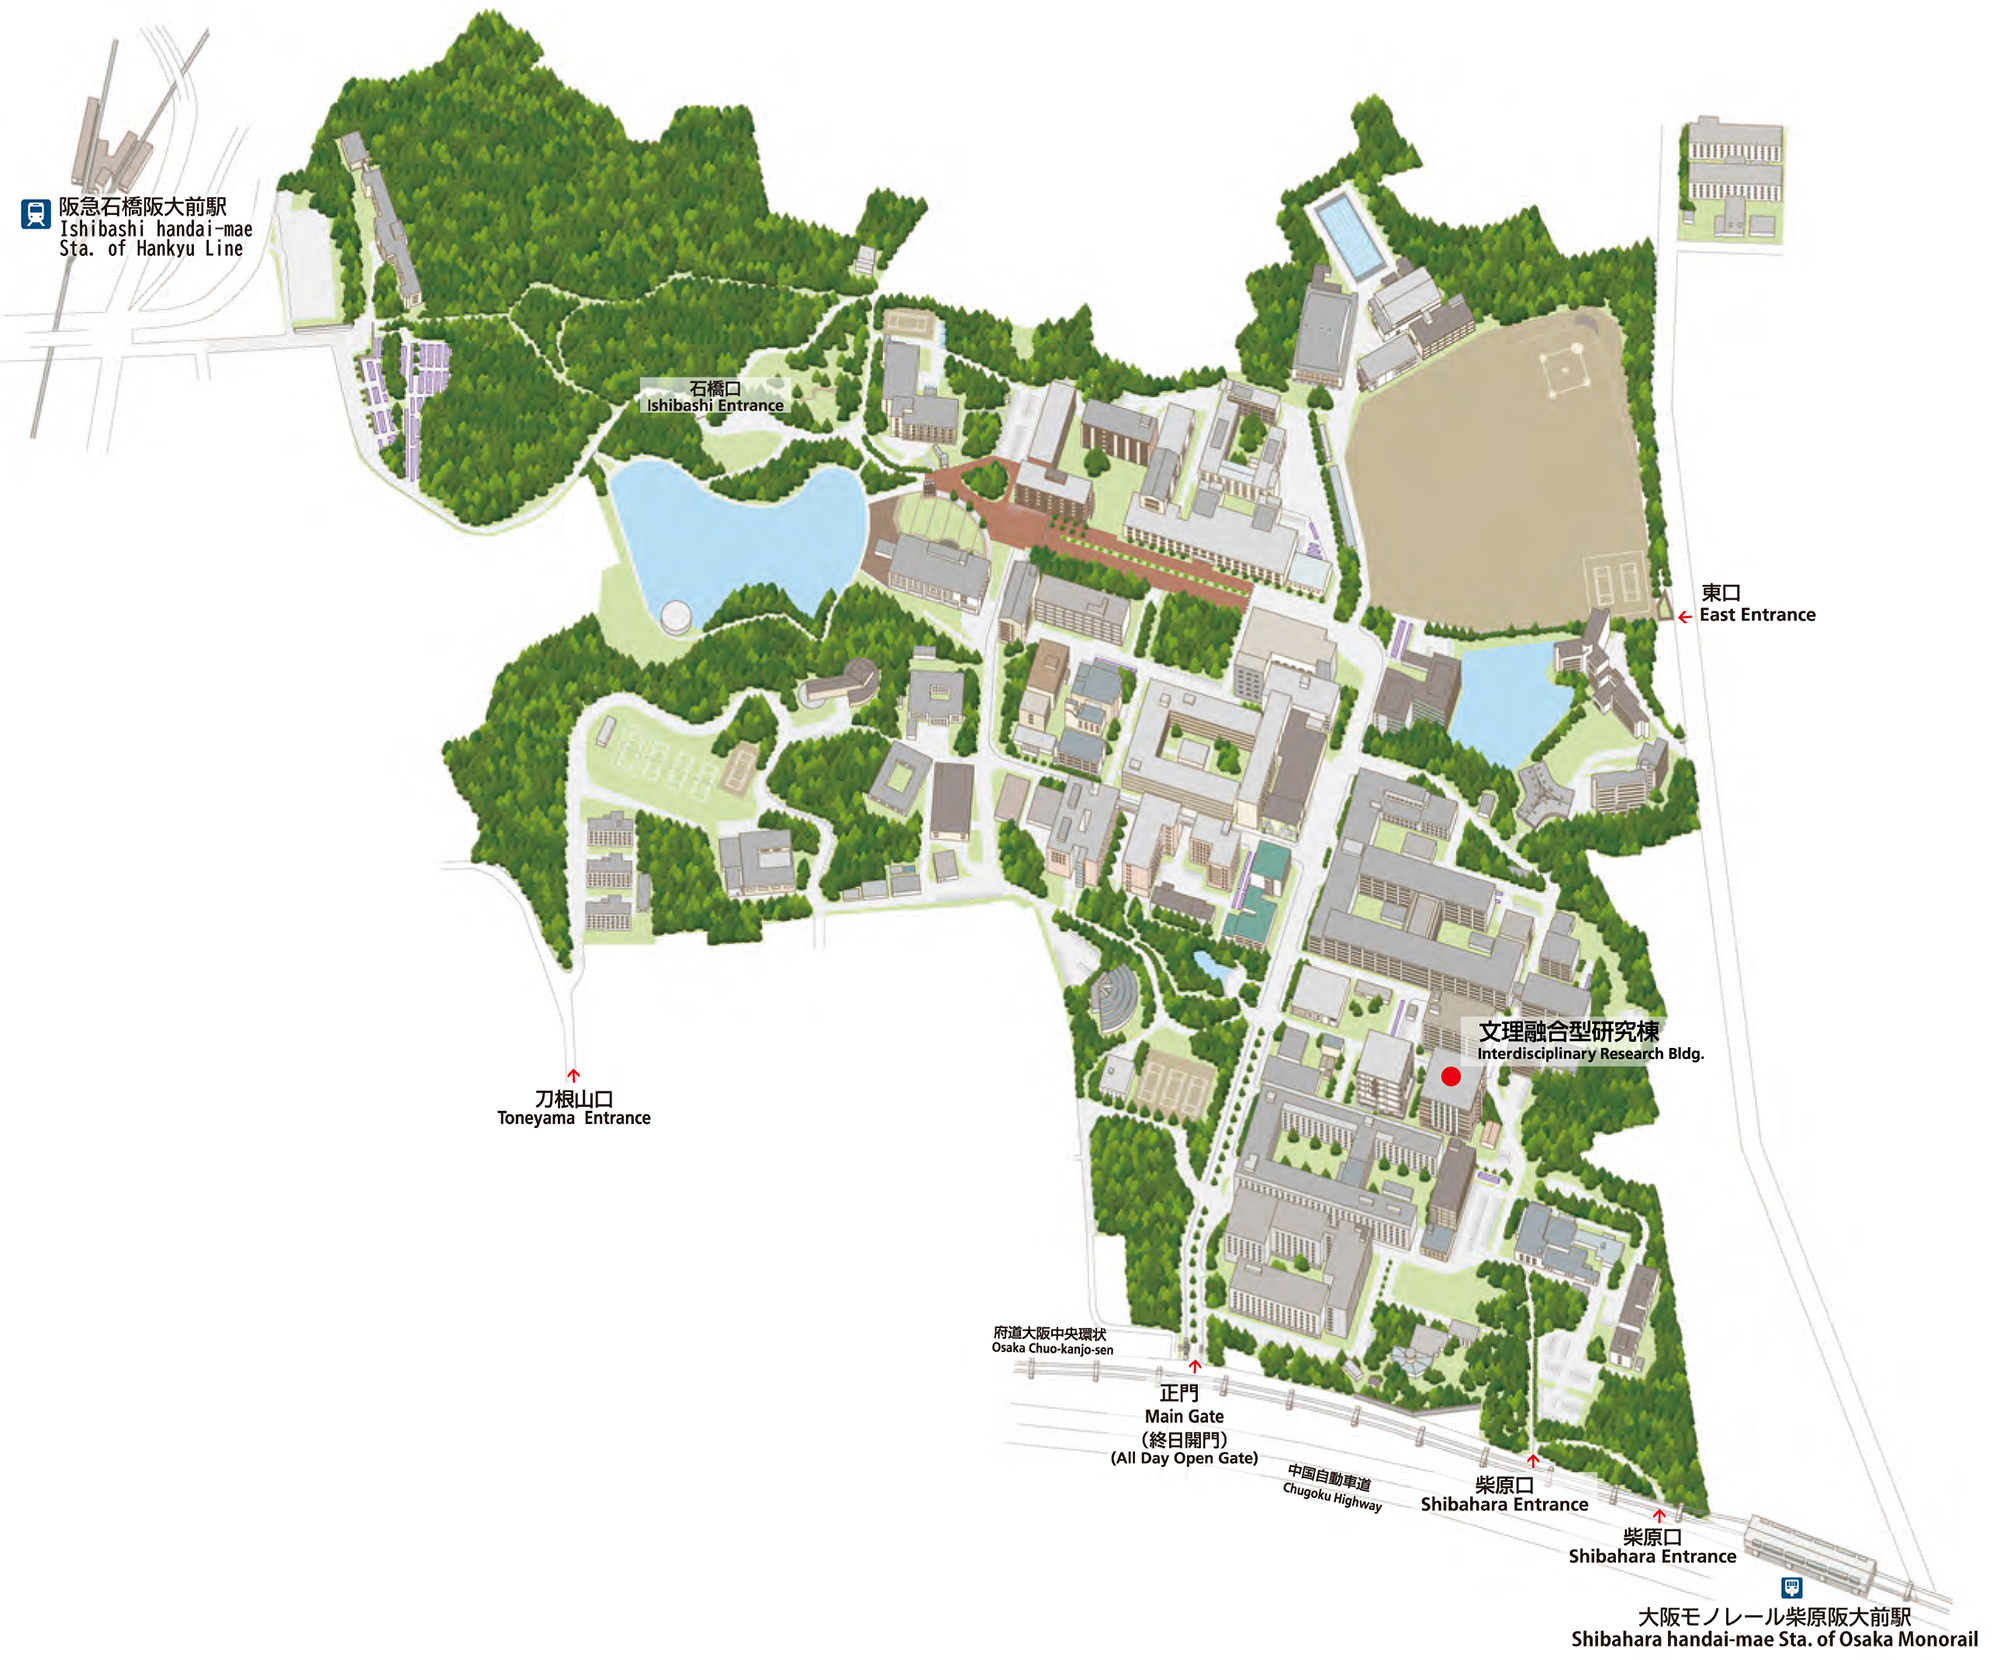
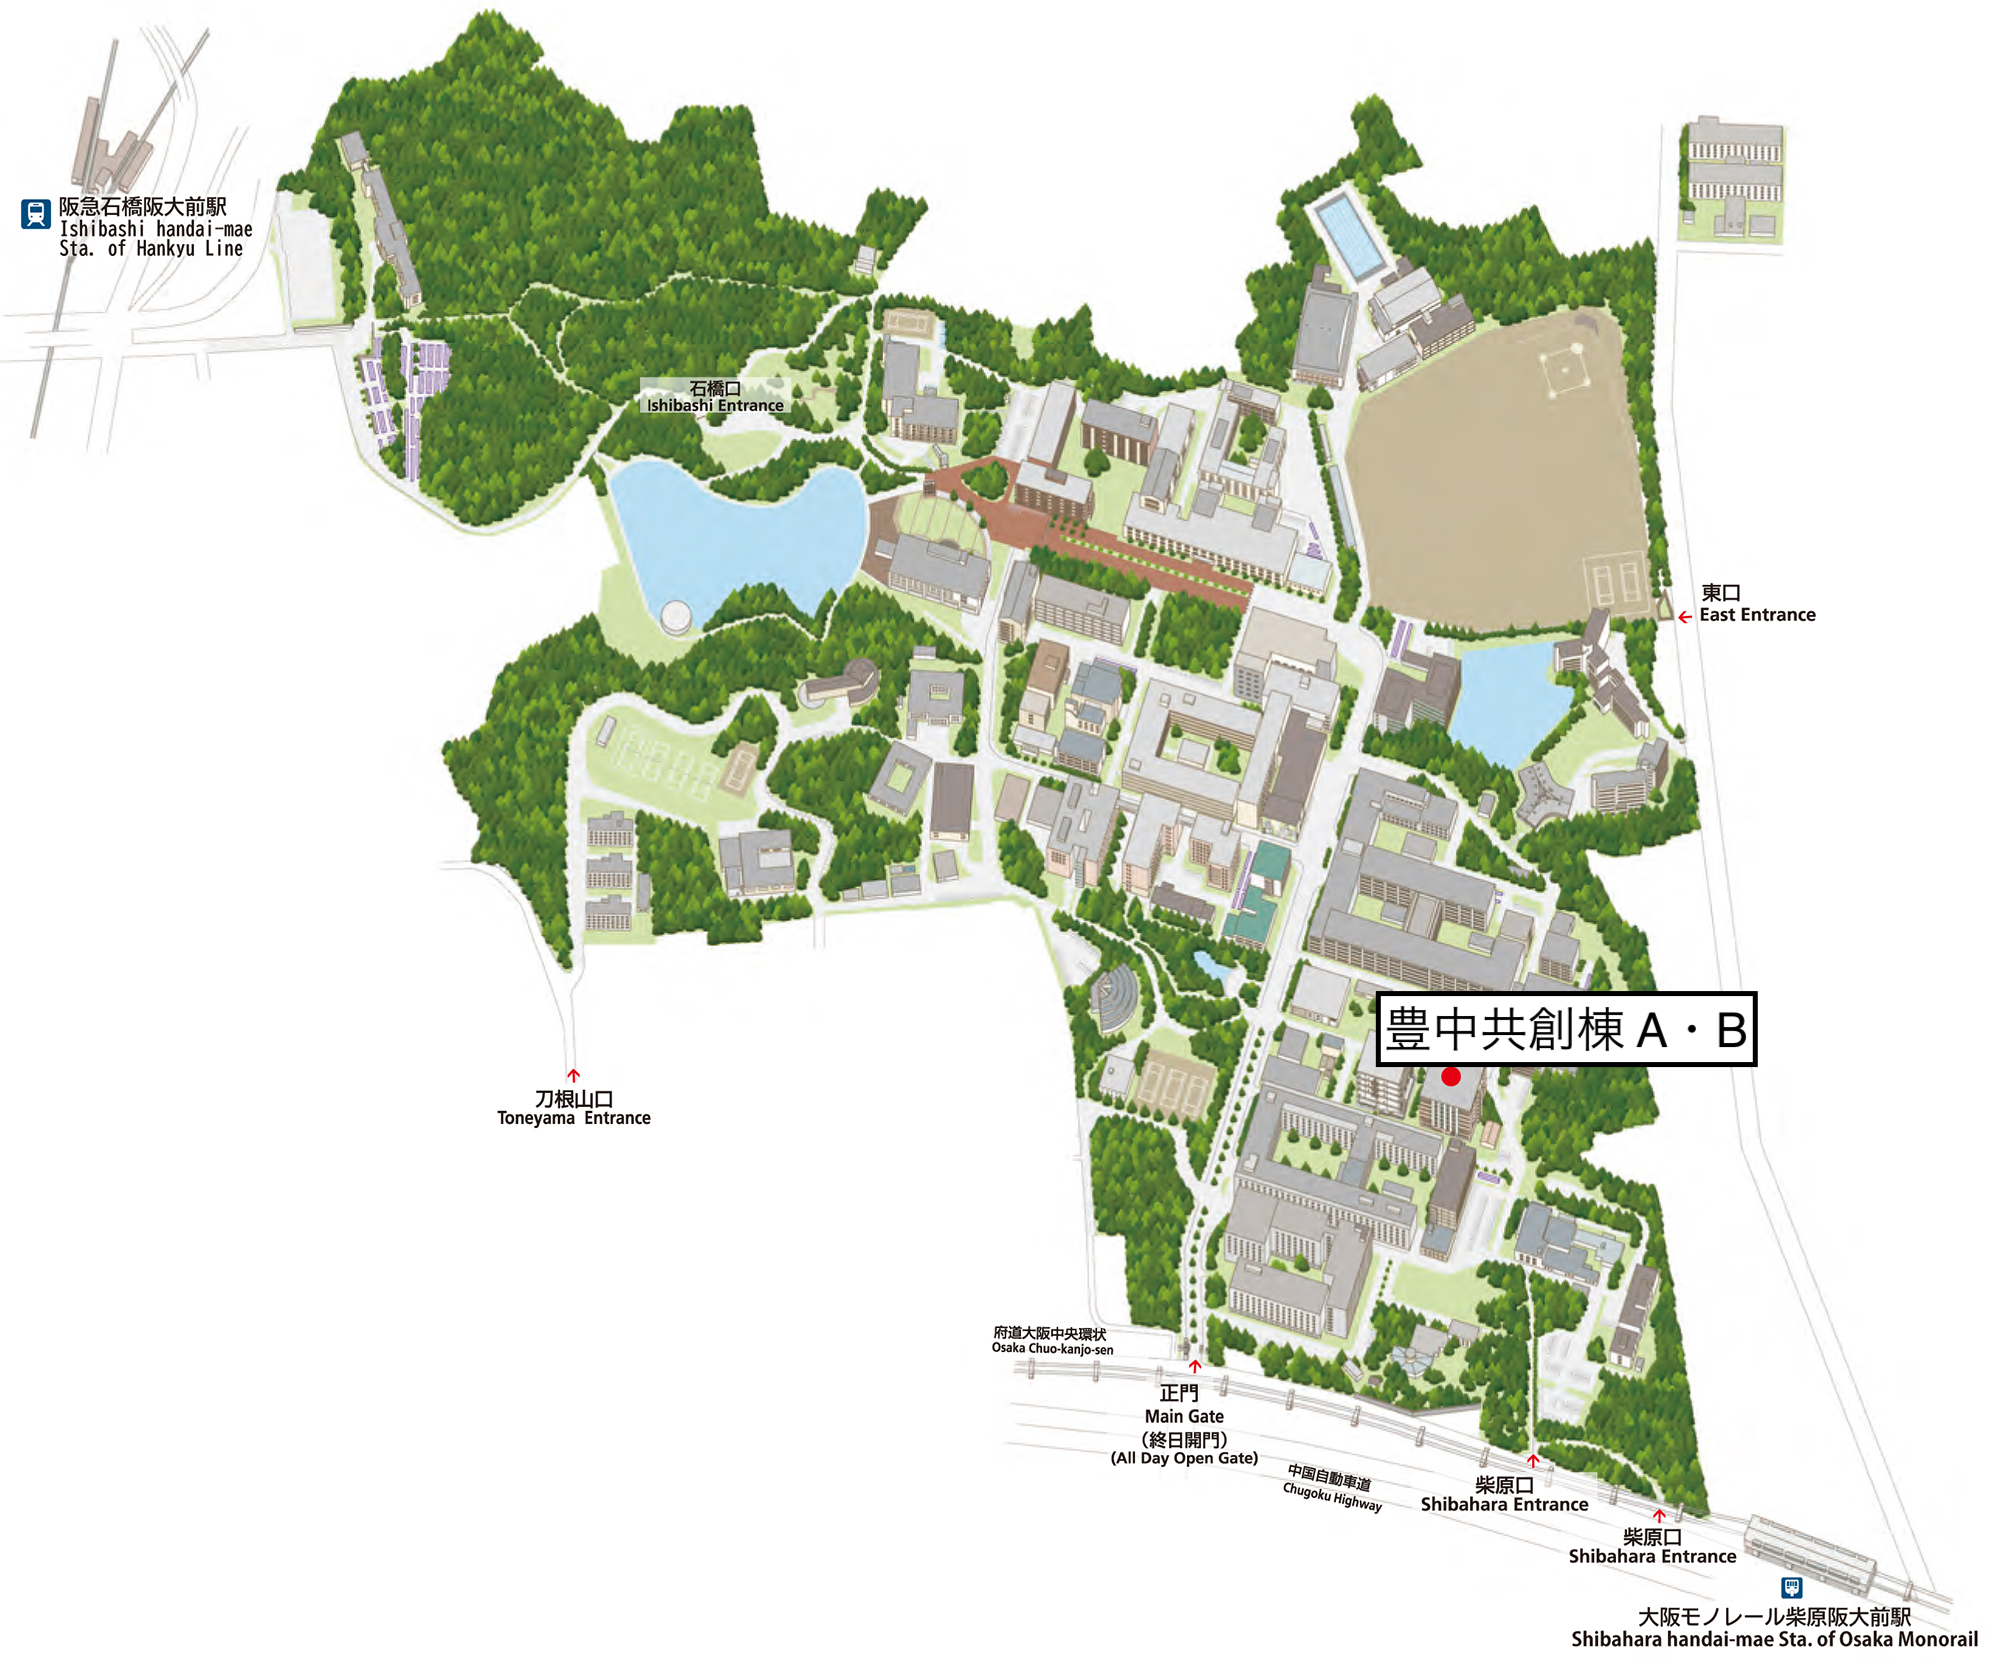
hp

Changed region(s): [[0.682, 0.5837, 0.899, 0.6452]]

diff --git a/index.html b/index.html
@@ -247,7 +247,7 @@
   <h1>QIQB 共同研究先企業<br>研究説明会</h1>
   <p class="subtitle">量子に興味がある学生・ポスドクの皆さん、QIQBが企業と共同研究の内容を聞いて、直接話せる絶好の機会です</p>
   <div class="dates">
-    <span>7/16（木）13:00 – 16:00</span>
+    <span>7/16（木）11:00 – 17:45</span>
   </div>
 </header>
 
@@ -263,7 +263,7 @@
       </div>
       <div class="info-item">
         <div class="label">開催日時</div>
-        <div class="value">7月16日（木）13:00 – 16:00</div>
+        <div class="value">7月16日（木）11:00 – 17:45</div>
       </div>
       <div class="info-item">
         <div class="label">服装</div>
@@ -359,13 +359,16 @@
           </thead>
           <tbody>
             <tr>
-              <td class="time-cell">14:00 – 14:45</td>
-              <td rowspan="4">B棟5階 会議室</td>
-              <td rowspan="4">
+              <td class="time-cell">11:00 – 11:45</td>
+              <td rowspan="5">B棟5階 会議室</td>
+              <td rowspan="5">
                 <div class="company-tags">
                   <span class="company-tag"><a href="https://www.qunasys.com" target="_blank" rel="noopener noreferrer">QunaSys</a></span>
                 </div>
               </td>
+            </tr>
+            <tr>
+              <td class="time-cell">14:00 – 14:45</td>
             </tr>
             <tr>
               <td class="time-cell">15:00 – 15:45</td>
@@ -375,6 +378,10 @@
             </tr>
             <tr>
               <td class="time-cell">17:00 – 17:45</td>
+            </tr>
+            <tr>
+              <td>企業コメント</td>
+              <td colSpan="2">15分会社説明＋30分質疑応答・交流</td>
             </tr>
           </tbody>
         </table>
@@ -419,7 +426,6 @@
 </div>
 
 <footer>
-  <p>QIQB（量子情報・量子生命研究センター）</p>
 </footer>
 
 </body>